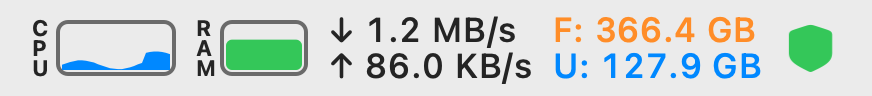
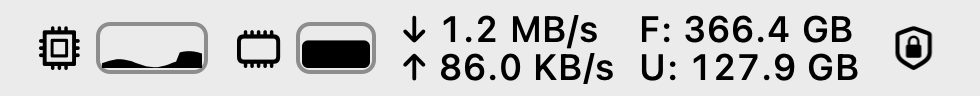
Update menu bar screenshots

Changed region(s): [[0.031, 0.1562, 0.9599, 0.875]]

diff --git a/README.md b/README.md
@@ -35,7 +35,7 @@
 
 ## What it shows
 
-**In the menu bar:** a CPU history graph and a RAM bar coloured by memory pressure. You can also add network speed, free and used disk space, and a VPN shield.
+**In the menu bar:** a CPU history graph and a RAM bar, drawn in the same monochrome style as the system icons (or in colour, if you prefer). You can also add network speed, free and used disk space, and a VPN shield.
 
 **Click it for more:**
 
